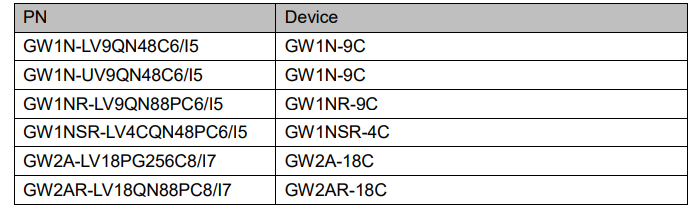
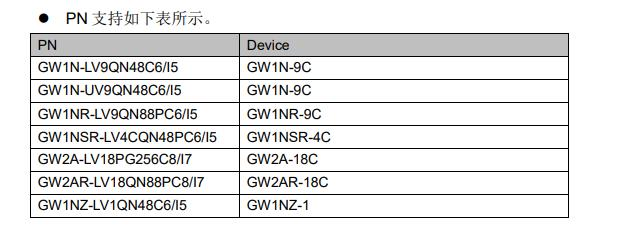
update fpga ide

diff --git a/docs/hardware/zh/tang/Tang-Nano-Doc/get_started/install-the-ide.md b/docs/hardware/zh/tang/Tang-Nano-Doc/get_started/install-the-ide.md
@@ -32,18 +32,23 @@ IDE 分为商业版和教育版：
 
 商业版的 IDE 需要 license，需要向高云半导体官方自行申请。
 
-教育版 IDE 不需要 license，且 V1.9.8.07 和之后的版本支持 GW2A-18C 器件。先在网页顶部注册、登陆然后就能够顺利下载下来教育版 IDE 了，目前教育版所支持的器件如下：
+教育版 IDE 不需要 license，直接点击下载就可以了。
+
+教育版所支持的器件如下：
 
 ![educational_device](./assets/educational_device.png)
 
-由于高云半导体的IDE在不断的更新中，上图为 2022 年 08 月 16 日截图
+由于高云半导体的IDE在不断的更新中，上图为 2022 年 11 月 09 日截图
 
-其中：
-- GW2A-LV18PG256C8/I7 GW2A-18C 为 Primer 20K 所使用的芯片
-- GW1NR-LV9QN88PC6/I5 GW1NR-9C 为 Nano 9K 所使用的芯片
-- GW1NSR-LV4CQN48PC6/I5 GW1NSR-4C 为 Nano 4K 所使用的芯片
+| 芯片全程               | 芯片系列  | 芯片型号   | 适用板卡     |
+| --------------------- | --------- | --------  | ----------- |
+| GW1NZ-LV1QN48C6/I5    | GW1NZ     |GW1NZ      | Nano 1K     |
+| GW1NSR-LV4CQN48PC6/I5 | GW1NSR    |GW1NSR-4C  | Nano 4K     |
+| GW1NR-LV9QN88PC6/I5   | GW1NR     |GW1NR-9C   | Nano 9K     |
+| GW2AR-LV18QN88PC8/I7  | GW2AR     |GW2AR-LV18 | Nano 20K    |
+| GW2A-LV18PG256C8/I7   | GW2A      |GW2A-18C   | Primer 20K  |
 
-所以对于购买了 Tang Nano 和 Tang Nano 1K 的用户，目前需要使用商业版的 IDE 且需要自行向高云半导体官方申请 license。
+所以对于购买了 Tang Nano （板载 jtag 芯片为 CH552），目前需要使用商业版的 IDE 且需要自行向高云半导体官方申请 license。
 
 ### 开始安装
 

diff --git a/docs/hardware/en/tang/Tang-Nano-Doc/install-the-ide.md b/docs/hardware/en/tang/Tang-Nano-Doc/install-the-ide.md
@@ -32,16 +32,21 @@ Standard Edition IDE requires license, which you should apply from GOWIN Semicon
 
 Education Edition IDE is free to use, but supports fewer device and contains less IP core.
 
-The following figure shows part number supported in the latest Education Edition IDE
+The following figure (Snapped on 2022/11/09) shows part number supported in the latest Education Edition IDE
 
 ![educational_device](./assets/educational_device.png)
 
-In this sheet：
-- GW2A-LV18PG256C8/I7 GW2A-18C is the chip on Primer 20K
-- GW1NR-LV9QN88PC6/I5 GW1NR-9C is the chip on Nano 9K
-- GW1NSR-LV4CQN48PC6/I5 GW1NSR-4C is the chip on Nano 4K
+The supported chips and boards are listed in the following sheet.
 
-So for those who use Tang Nano or Tang Nano 1K, it's need to use Standard Edition IDE and apply license from GOWIN Semiconductor Corp now.
+| Chip full name        |Chip Series|Chip model | Board       |
+| --------------------- | --------- | --------  | ----------- |
+| GW1NZ-LV1QN48C6/I5    | GW1NZ     |GW1NZ      | Nano 1K     |
+| GW1NSR-LV4CQN48PC6/I5 | GW1NSR    |GW1NSR-4C  | Nano 4K     |
+| GW1NR-LV9QN88PC6/I5   | GW1NR     |GW1NR-9C   | Nano 9K     |
+| GW2AR-LV18QN88PC8/I7  | GW2AR     |GW2AR-LV18 | Nano 20K    |
+| GW2A-LV18PG256C8/I7   | GW2A      |GW2A-18C   | Primer 20K  |
+
+So for those who use Tang Nano (Onboard jtag is CH552), it's need to use Standard Edition IDE and apply license from GOWIN Semiconductor Corp now.
 
 ### Install
 

diff --git a/docs/hardware/zh/maix/m1s/m1s_dock.md b/docs/hardware/zh/maix/m1s/m1s_dock.md
@@ -200,7 +200,7 @@ Sipeed M1s Dock 是基于 [Sipeed M1s](./m1s_module.md) 模组来设计的一款
 
 ---
 
-- [SDK](https://github.com/bouffalolab/bl_mcu_sdk) (Github) 
+- [SDK](https://github.com/sipeed/M1s_BL808_SDK) (Github) 
 - [Examples](https://github.com/sipeed/M1s_BL808_example)（Github）
 - 交流 QQ 群：`816177882` 。[点我加群](https://jq.qq.com/?_wv=1027&k=0fOkj3EB)
 - 论坛：[bbs.sipeed.com](bbs.sipeed.com)
